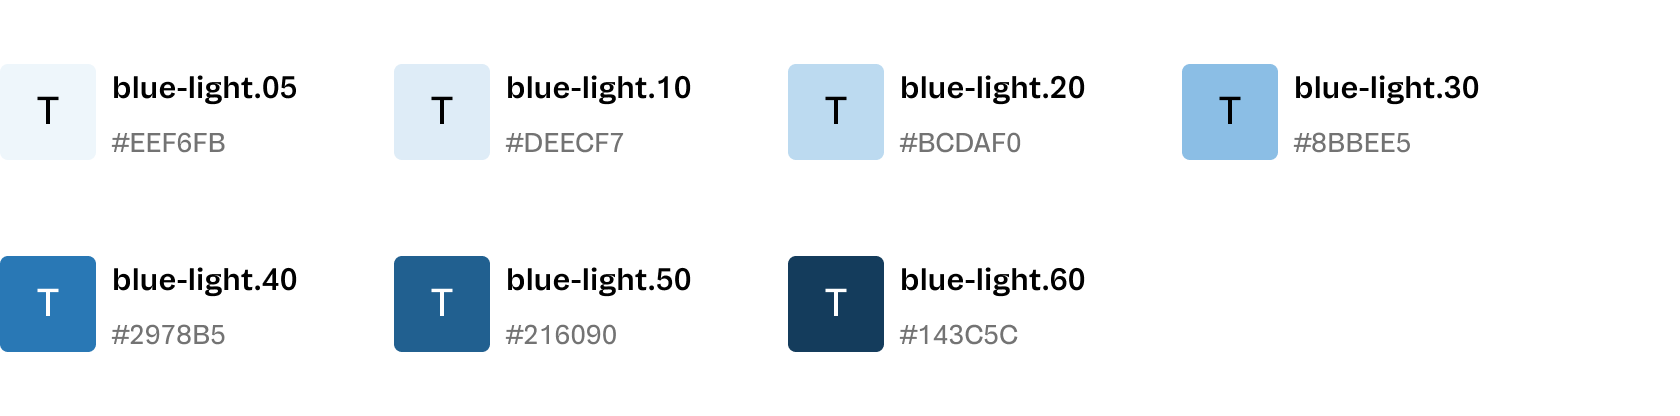
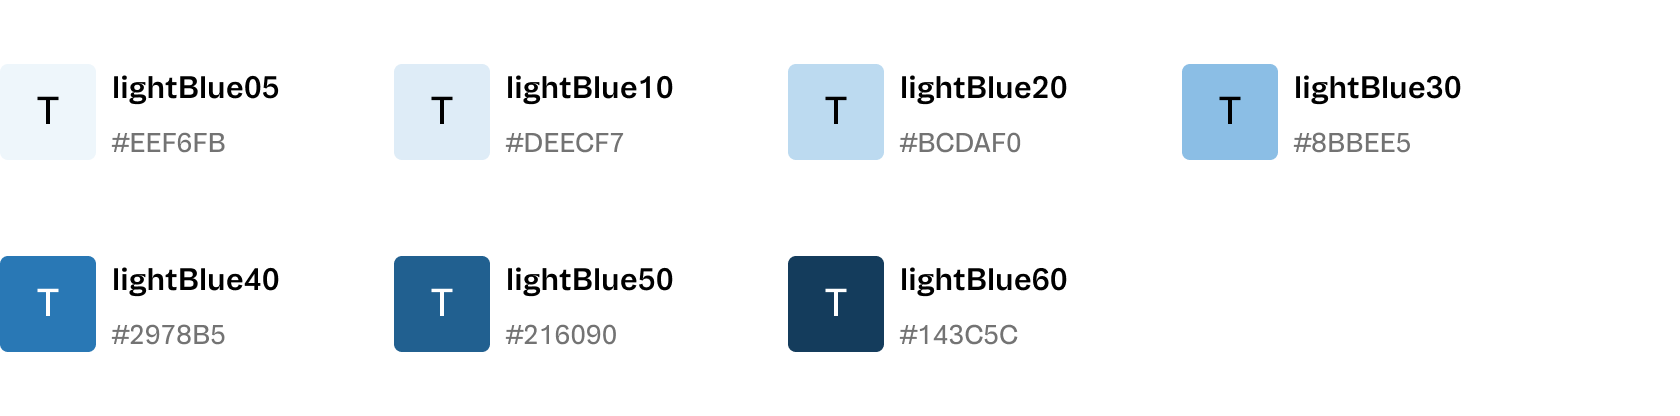
docs(docs/organize-colors-text): organize colors text

diff --git a/packages/site/documentation/foundations/colors.md b/packages/site/documentation/foundations/colors.md
@@ -8,29 +8,29 @@ Colors are used to reflect a product's style with consistency across all compone
 
 Todas as nossas cores existem no formato de tokens no Admin UI, para saber mais sobre como utilizar cada token de cor utilize nossa documentação sobre Design Tokens.
 
-## Primary Color
+## Tones
 
-We use blue.40 for primary actions (which will move the user forward in the flow) like buttons, text links, etc., and interactive elements like element selection, drag states, etc. Elements that are not actionable or interacting must not use this color.
+## Palettes
+
+### Blue
+
+We use blue40 for primary actions (which will move the user forward in the flow) like buttons, text links, etc., and interactive elements like element selection, drag states, etc. Elements that are not actionable or interacting must not use this color.
 
 ![Blue Palette](../../src/images/blue-palette.png)
 
 ### Do
 
-- Use blue.40 for primary actions, links, active and selected states.
+- Use blue40 for primary actions, links, active and selected states.
 
 ![Blue - Do](../../src/images/do-blue-actions-interactions.png)
 
 ### Dont's
 
-- Do not use blue.40 for highlighting information. Because using this color for actions may confuse when used on something like highlighting some information or text.
+- Do not use blue40 for highlighting information. Because using this color for actions may confuse when used on something like highlighting some information or text.
 
 ![Blue - Dont](../../src/images/dont-blue-actions-interactions.png)
 
-- Do not use blue.40 for the color of the backgrounds. It can interfere with the visual priorities on the page and draw attention to non-action elements. Generally, buttons should be the only elements with dark backgrounds. Nothing on the page should draw attention away from them.
-
-## Semantic Colors
-
-Semantic colors help users identify status, feedback, and informational elements in the interface. Consistent use of color keeps the cognitive load low and contributes to a unified and engaging user experience.
+- Do not use blue40 for the color of the backgrounds. It can interfere with the visual priorities on the page and draw attention to non-action elements. Generally, buttons should be the only elements with dark backgrounds. Nothing on the page should draw attention away from them.
 
 ### Green
 
@@ -42,7 +42,7 @@ Semantic colors help users identify status, feedback, and informational elements
 ### Orange:
 
 - Orange color is mainly used for backgrounds in warning messages, actions and in states.
-- Use orange.50 for text on white backgrounds.
+- Use orange50 for text on white backgrounds.
 
 ![Orange Palette](../../src/images/orange-palette.png)
 
@@ -53,43 +53,26 @@ Semantic colors help users identify status, feedback, and informational elements
 
 ![Red Palette](../../src/images/red-palette.png)
 
-### Blue Light
+### Light Blue
 
-- Blue Light color is mainly used for backgrounds in information messages, and status.
-- Use Blue Light color for highlighting information such as text or numbers.
-- Use Blue Light color for line charts.
+- Light Blue color is mainly used for backgrounds in information messages, and status.
+- Use Light Blue color for highlighting information such as text or numbers.
+- Use Light Blue color for line charts.
 
 ![Blue Light Palette](../../src/images/blue-light-palette.png)
 
-## Foreground
+### Grey
 
 - Use black color for main text.
-- Use grey.50 for secondary texts, which have a lower of importance than main texts, such as captions, subtitles, descriptions, etc.
-- Use grey.50 for icons colors.
+- Use grey50 for secondary texts, which have a lower of importance than main texts, such as captions, subtitles, descriptions, etc.
+- Use grey50 for icons colors.
+- Use white color for main pages background.
+- Use grey10 color for highlighting background in specific scenarios like a sidebar component.
+- Do not use grey10 as a border color for inputs and divisions.
+- Use grey30 color for the main border (cards, lines, dividers, etc.)
+- Use blue30 for focus navigaiton.
 
 ![Grey Palette](../../src/images/grey-palette.png)
-
-## Background
-
-We have two main color options for background on the Admin UI:
-
-### White:
-
-- Use white color for main pages background.
-
-### Grey:
-
-- Use grey.10 color for highlighting background in specific scenarios like a sidebar component.
-- Do not use grey.10 as a border color for inputs and divisions.
-
-## Border
-
-- Use grey.30 color for the main border (cards, lines, dividers, etc.)
-- Use blue.30 for focus navigaiton.
-
-## Extended palette
-
-Use extended palette colors for tag component (except pink palette).
 
 ### Purple
 
